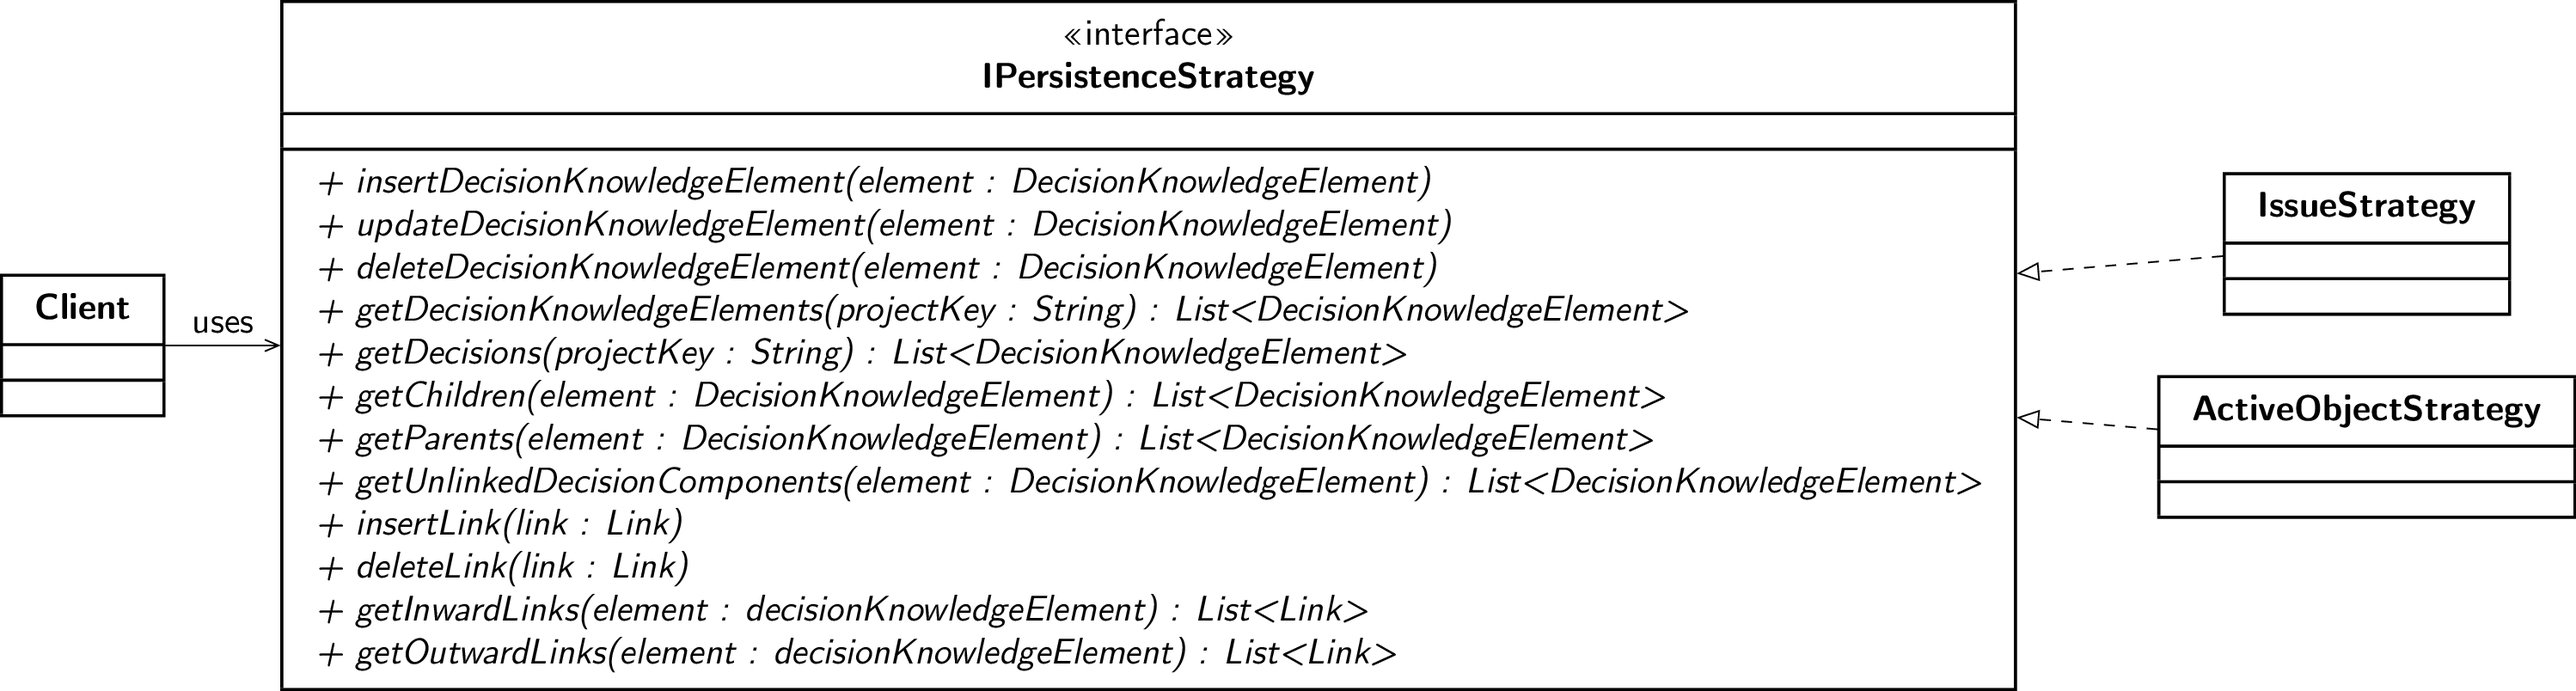
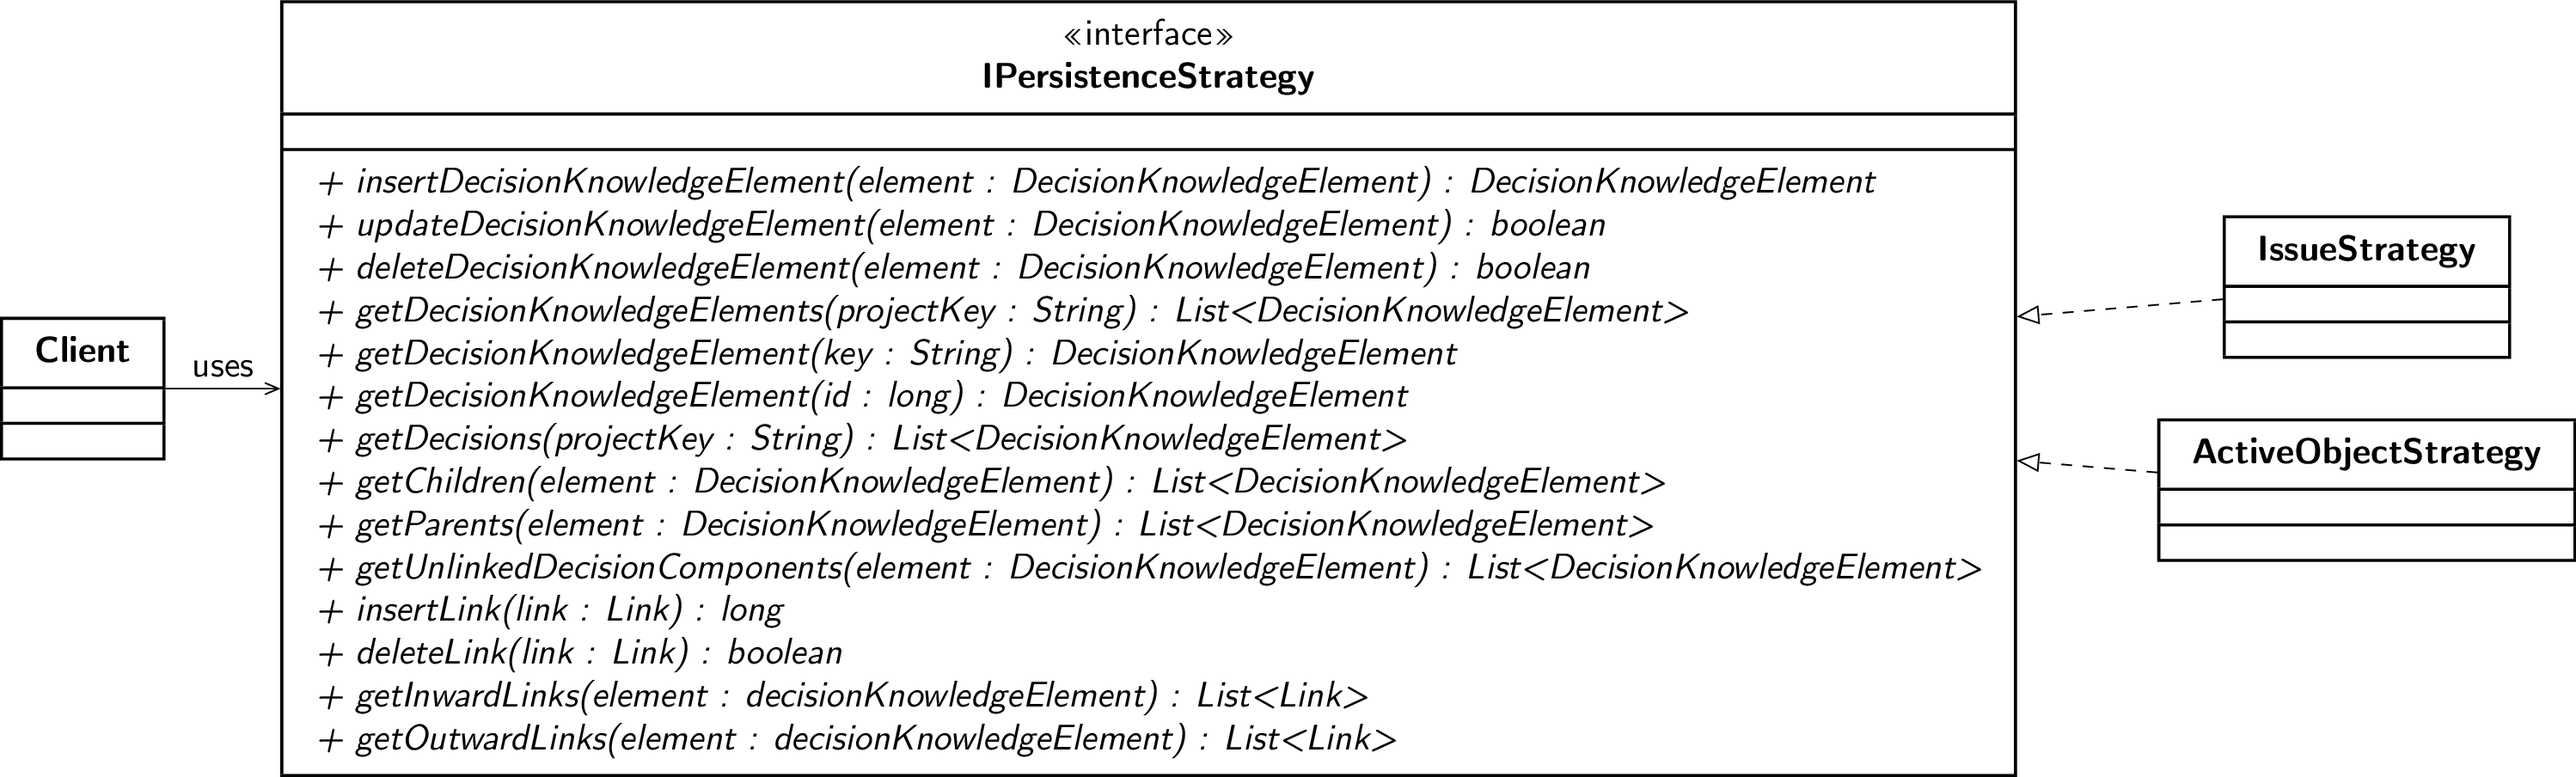
ConDec-24: Move DecisionsRest to persistence package

diff --git a/doc/decision_storage_strategies.tex b/doc/decision_storage_strategies.tex
@@ -4,17 +4,19 @@
 
 % abstract strategy/interface
 \umlclass[type=interface]{IPersistenceStrategy}{}{
-    \textit{+ insertDecisionKnowledgeElement(element : DecisionKnowledgeElement)}\\
-    \textit{+ updateDecisionKnowledgeElement(element : DecisionKnowledgeElement)}\\
-    \textit{+ deleteDecisionKnowledgeElement(element : DecisionKnowledgeElement)}\\
+    \textit{+ insertDecisionKnowledgeElement(element : DecisionKnowledgeElement) : DecisionKnowledgeElement}\\
+    \textit{+ updateDecisionKnowledgeElement(element : DecisionKnowledgeElement) : boolean}\\
+    \textit{+ deleteDecisionKnowledgeElement(element : DecisionKnowledgeElement) : boolean}\\
     \textit{+ getDecisionKnowledgeElements(projectKey : String) : List<DecisionKnowledgeElement>}\\
+    \textit{+ getDecisionKnowledgeElement(key : String) : DecisionKnowledgeElement}\\
+    \textit{+ getDecisionKnowledgeElement(id : long) : DecisionKnowledgeElement}\\
     \textit{+ getDecisions(projectKey : String) : List<DecisionKnowledgeElement>}\\
     \textit{+ getChildren(element : DecisionKnowledgeElement) : List<DecisionKnowledgeElement>}\\
     \textit{+ getParents(element : DecisionKnowledgeElement) : List<DecisionKnowledgeElement>}\\
     \textit{+ getUnlinkedDecisionComponents(element : DecisionKnowledgeElement) : List<DecisionKnowledgeElement>}\\
 
-    \textit{+ insertLink(link : Link)}\\
-    \textit{+ deleteLink(link : Link)}\\
+    \textit{+ insertLink(link : Link) : long}\\
+    \textit{+ deleteLink(link : Link) : boolean}\\
     \textit{+ getInwardLinks(element : decisionKnowledgeElement) : List<Link>}\\
     \textit{+ getOutwardLinks(element : decisionKnowledgeElement) : List<Link>}\\
 }

diff --git a/src/main/java/de/uhd/ifi/se/decision/documentation/jira/persistence/IssueStrategy.java b/src/main/java/de/uhd/ifi/se/decision/documentation/jira/persistence/IssueStrategy.java
@@ -68,6 +68,7 @@ public class IssueStrategy implements IPersistenceStrategy {
 			IssueResult issueResult = issueService.create(user, result);
 			Issue issue = issueResult.getIssue();
 			decisionElement.setId(issue.getId());
+			decisionElement.setKey(issue.getKey());
 			return decisionElement;
 		}
 	}
@@ -303,6 +304,11 @@ public class IssueStrategy implements IPersistenceStrategy {
 		IssueManager issueManager = ComponentAccessor.getIssueManager();
 		Issue issue = issueManager.getIssueByCurrentKey(key);
 		return new DecisionKnowledgeElement(issue);
+	}
+
+	// TODO Implement this method and add it to the IPersistenceStrategy interface
+	public DecisionKnowledgeElement getDecisionKnowledgeElement(long id) {
+		return null;
 	}
 
 	@Override

diff --git a/src/main/java/de/uhd/ifi/se/decision/documentation/jira/persistence/DecisionsRest.java b/src/main/java/de/uhd/ifi/se/decision/documentation/jira/persistence/DecisionsRest.java
@@ -1,4 +1,4 @@
-package de.uhd.ifi.se.decision.documentation.jira.decisionknowledge;
+package de.uhd.ifi.se.decision.documentation.jira.persistence;
 
 import java.util.List;
 
@@ -14,8 +14,8 @@ import com.atlassian.jira.user.ApplicationUser;
 import com.atlassian.sal.api.user.UserManager;
 import com.google.common.collect.ImmutableMap;
 
-import de.uhd.ifi.se.decision.documentation.jira.persistence.IPersistenceStrategy;
-import de.uhd.ifi.se.decision.documentation.jira.persistence.StrategyProvider;
+import de.uhd.ifi.se.decision.documentation.jira.decisionknowledge.DecisionKnowledgeElement;
+import de.uhd.ifi.se.decision.documentation.jira.decisionknowledge.Link;
 import de.uhd.ifi.se.decision.documentation.jira.util.ComponentGetter;
 
 /**

diff --git a/src/test/java/de/uhd/ifi/se/decision/documentation/jira/decisionknowledge/DecisionRest/TestPutLink.java b/src/test/java/de/uhd/ifi/se/decision/documentation/jira/decisionknowledge/DecisionRest/TestPutLink.java
@@ -15,10 +15,10 @@ import com.atlassian.jira.mock.servlet.MockHttpServletRequest;
 import com.google.common.collect.ImmutableMap;
 
 import de.uhd.ifi.se.decision.documentation.jira.TestSetUp;
-import de.uhd.ifi.se.decision.documentation.jira.decisionknowledge.DecisionsRest;
 import de.uhd.ifi.se.decision.documentation.jira.decisionknowledge.Link;
 import de.uhd.ifi.se.decision.documentation.jira.mocks.MockDefaultUserManager;
 import de.uhd.ifi.se.decision.documentation.jira.mocks.MockTransactionTemplate;
+import de.uhd.ifi.se.decision.documentation.jira.persistence.DecisionsRest;
 import de.uhd.ifi.se.decision.documentation.jira.util.ComponentGetter;
 import net.java.ao.EntityManager;
 import net.java.ao.test.junit.ActiveObjectsJUnitRunner;

diff --git a/src/test/java/de/uhd/ifi/se/decision/documentation/jira/decisionknowledge/DecisionRest/TestDecisionSetUp.java b/src/test/java/de/uhd/ifi/se/decision/documentation/jira/decisionknowledge/DecisionRest/TestDecisionSetUp.java
@@ -7,9 +7,9 @@ import com.atlassian.jira.mock.servlet.MockHttpServletRequest;
 
 import de.uhd.ifi.se.decision.documentation.jira.TestSetUp;
 import de.uhd.ifi.se.decision.documentation.jira.decisionknowledge.DecisionKnowledgeElement;
-import de.uhd.ifi.se.decision.documentation.jira.decisionknowledge.DecisionsRest;
 import de.uhd.ifi.se.decision.documentation.jira.mocks.MockDefaultUserManager;
 import de.uhd.ifi.se.decision.documentation.jira.mocks.MockTransactionTemplate;
+import de.uhd.ifi.se.decision.documentation.jira.persistence.DecisionsRest;
 import de.uhd.ifi.se.decision.documentation.jira.util.ComponentGetter;
 import net.java.ao.EntityManager;
 import org.junit.Before;

diff --git a/src/test/java/de/uhd/ifi/se/decision/documentation/jira/decisionknowledge/DecisionRest/TestGetUnlinkedIssues.java b/src/test/java/de/uhd/ifi/se/decision/documentation/jira/decisionknowledge/DecisionRest/TestGetUnlinkedIssues.java
@@ -13,9 +13,9 @@ import com.atlassian.activeobjects.test.TestActiveObjects;
 import com.google.common.collect.ImmutableMap;
 
 import de.uhd.ifi.se.decision.documentation.jira.TestSetUp;
-import de.uhd.ifi.se.decision.documentation.jira.decisionknowledge.DecisionsRest;
 import de.uhd.ifi.se.decision.documentation.jira.mocks.MockDefaultUserManager;
 import de.uhd.ifi.se.decision.documentation.jira.mocks.MockTransactionTemplate;
+import de.uhd.ifi.se.decision.documentation.jira.persistence.DecisionsRest;
 import de.uhd.ifi.se.decision.documentation.jira.util.ComponentGetter;
 import net.java.ao.EntityManager;
 import net.java.ao.test.junit.ActiveObjectsJUnitRunner;
